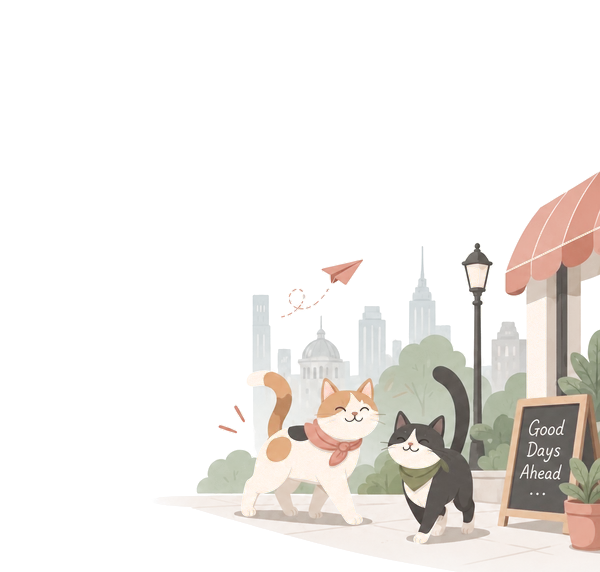
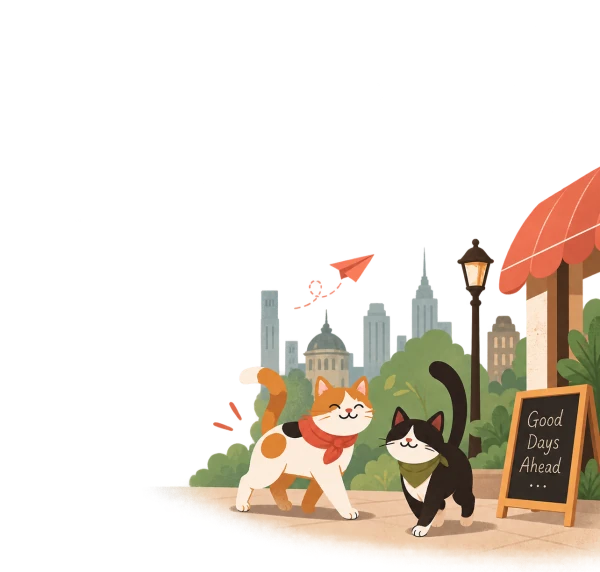
Polish light planner illustration composition (CAT-01)

Changed region(s): [[0.27, 0.2675, 1.0, 0.9808]]

diff --git a/app/src/components/IdeasHeaderArt.tsx b/app/src/components/IdeasHeaderArt.tsx
@@ -41,6 +41,10 @@
 // colour (`scripts/ideas-art.py`): the flat ground is alpha 0, the
 // painting's own fade is partial alpha, and what shows through is the
 // page itself, glow and all. There is no edge left to see.
+// The CAT-01 light revision keeps that transparent 600×572 frame, but
+// removes the edge flowerpot and softens the pavement in the asset.
+// Its alpha comes from the revised artwork, not the original keying
+// script; the layout and the dark painting do not need to change.
 //
 // ── when it is not there ──
 //

diff --git a/app/scripts/ideas-art.py b/app/scripts/ideas-art.py
@@ -7,6 +7,11 @@ Writes assets/ideas-art-dark.webp and assets/ideas-art-light.webp
 (600×572, WebP with alpha) — see src/components/IdeasHeaderArt.tsx for
 how they are laid out and why they are transparent.
 
+Historical source-render pipeline: the light asset was subsequently
+art-directed for CAT-01 (no edge flowerpot, softer pavement, clearer
+cats). Running this script with the old renders replaces that revision;
+it does not reproduce the current light painting.
+
 Each source is a 1536×1024 render on a flat ground close to the page
 colour, the painting in its right half. The steps, for each:
 
